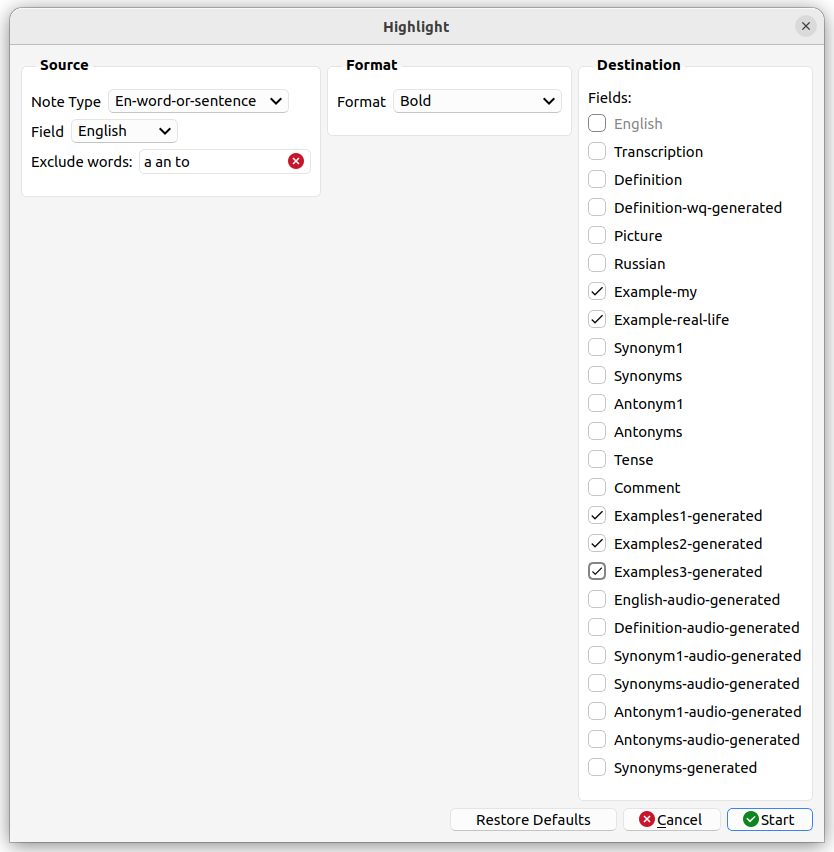
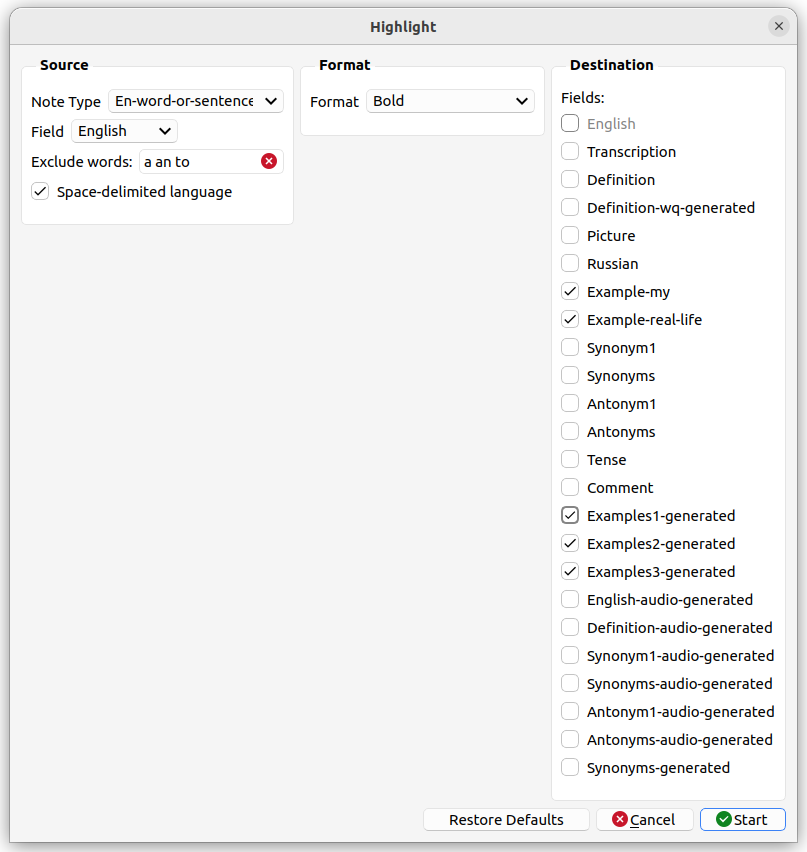
Update docs

diff --git a/docs-template/addon-info-description.md b/docs-template/addon-info-description.md
@@ -1,5 +1,5 @@
 **(!) This addon is in the BETA state. Use carefully. Try on a few notes first. Please, share your feedback
-in [Anki Forum](https://forums.ankiweb.net/u/aleks_ya/summary)
+in [Anki Forum](https://forums.ankiweb.net/t/cross-field-highlighter-addon-support-page/52592)
 or [GitHub issues](https://github.com/Aleks-Ya/cross-field-highlighter-anki-addon/issues).**
 
 "Cross-Field Highlighter" takes word or collocation from the source field and highlights it in the destination
@@ -8,16 +8,21 @@ fields:
 
 ## Screenshots
 
-CFH menu:  
+Browser menu:  
 ![](https://raw.githubusercontent.com/Aleks-Ya/cross-field-highlighter-anki-addon/master/docs/images/browser-menu.png)
 
 "Highlight" dialog:  
 ![](https://raw.githubusercontent.com/Aleks-Ya/cross-field-highlighter-anki-addon/master/docs/images/dialog-highlight.png)
+
+Supported formats:
+![](https://raw.githubusercontent.com/Aleks-Ya/cross-field-highlighter-anki-addon/master/docs/images/formats.png)
 
 "Erase" dialog (removes previously added highlighting):  
 ![](https://raw.githubusercontent.com/Aleks-Ya/cross-field-highlighter-anki-addon/master/docs/images/dialog-erase.png)
 
 ## Links
 
-- [GitHub project](https://github.com/Aleks-Ya/cross-field-highlighter-anki-addon)
+- [Addon Page](https://ankiweb.net/shared/info/1312127886)
+- [Support forum topic](https://forums.ankiweb.net/t/cross-field-highlighter-addon-support-page/52592)
+- [GitHub](https://github.com/Aleks-Ya/cross-field-highlighter-anki-addon)
 - [Changelog](https://github.com/Aleks-Ya/cross-field-highlighter-anki-addon/blob/master/CHANGELOG.md)

diff --git a/docs/addon-info-description.md b/docs/addon-info-description.md
@@ -1,5 +1,5 @@
 **(!) This addon is in the BETA state. Use carefully. Try on a few notes first. Please, share your feedback
-in [Anki Forum](https://forums.ankiweb.net/u/aleks_ya/summary)
+in [Anki Forum](https://forums.ankiweb.net/t/cross-field-highlighter-addon-support-page/52592)
 or [GitHub issues](https://github.com/Aleks-Ya/cross-field-highlighter-anki-addon/issues).**
 
 "Cross-Field Highlighter" takes word or collocation from the source field and highlights it in the destination
@@ -8,16 +8,21 @@ fields:
 
 ## Screenshots
 
-CFH menu:  
+Browser menu:  
 ![](https://raw.githubusercontent.com/Aleks-Ya/cross-field-highlighter-anki-addon/master/docs/images/browser-menu.png)
 
 "Highlight" dialog:  
 ![](https://raw.githubusercontent.com/Aleks-Ya/cross-field-highlighter-anki-addon/master/docs/images/dialog-highlight.png)
+
+Supported formats:
+![](https://raw.githubusercontent.com/Aleks-Ya/cross-field-highlighter-anki-addon/master/docs/images/formats.png)
 
 "Erase" dialog (removes previously added highlighting):  
 ![](https://raw.githubusercontent.com/Aleks-Ya/cross-field-highlighter-anki-addon/master/docs/images/dialog-erase.png)
 
 ## Links
 
-- [GitHub project](https://github.com/Aleks-Ya/cross-field-highlighter-anki-addon)
+- [Addon Page](https://ankiweb.net/shared/info/1312127886)
+- [Support forum topic](https://forums.ankiweb.net/t/cross-field-highlighter-addon-support-page/52592)
+- [GitHub](https://github.com/Aleks-Ya/cross-field-highlighter-anki-addon)
 - [Changelog](https://github.com/Aleks-Ya/cross-field-highlighter-anki-addon/blob/master/CHANGELOG.md)

diff --git a/README.md b/README.md
@@ -1,6 +1,7 @@
 # "Cross-Field Highlighter" Anki addon
 
 - [Addon Page](https://ankiweb.net/shared/info/1312127886)
+- [Support forum topic](https://forums.ankiweb.net/t/cross-field-highlighter-addon-support-page/52592)
 - [GitHub](https://github.com/Aleks-Ya/cross-field-highlighter-anki-addon)
 - [Changelog](https://github.com/Aleks-Ya/cross-field-highlighter-anki-addon/blob/master/CHANGELOG.md)
 
@@ -8,11 +9,14 @@
 fields:  
 ![](https://raw.githubusercontent.com/Aleks-Ya/cross-field-highlighter-anki-addon/master/docs/images/short-description-2.png)
 
-CFH menu:  
+Browser menu:  
 ![](https://raw.githubusercontent.com/Aleks-Ya/cross-field-highlighter-anki-addon/master/docs/images/browser-menu.png)
 
 "Highlight" dialog:  
 ![](https://raw.githubusercontent.com/Aleks-Ya/cross-field-highlighter-anki-addon/master/docs/images/dialog-highlight.png)
+
+Supported formats:  
+![](https://raw.githubusercontent.com/Aleks-Ya/cross-field-highlighter-anki-addon/master/docs/images/formats.png)
 
 "Erase" dialog (removes previously added highlighting):  
 ![](https://raw.githubusercontent.com/Aleks-Ya/cross-field-highlighter-anki-addon/master/docs/images/dialog-erase.png)

diff --git a/docs-template/developer-manual.md b/docs-template/developer-manual.md
@@ -52,16 +52,17 @@ Run: `./deploy_locally.sh ~/.local/share/Anki2/addons21/cross_field_highlighter`
 
 ## Release
 
-1. Update `CHANGELOG.md` manually
-2. Update documentation: `./docs_render.sh`
-3. Increment version:
+1. Check SonarQube warnings: https://sonarcloud.io/project/overview?id=Aleks-Ya_note-size-anki-addon
+2. Update `CHANGELOG.md` manually
+3. Update documentation: `./docs_render.sh`
+4. Increment version:
     1. Major: `bump-my-version bump major`
     2. Minor: `bump-my-version bump minor`
     3. Patch: `bump-my-version bump patch`
-4. Build ZIP: `python setup.py dist`
-5. Upload ZIP to the Addon page:
+5. Build ZIP: `python setup.py dist`
+6. Upload ZIP to the Addon page:
     1. Page: https://ankiweb.net/shared/info/1312127886
     2. Update `Description` from `docs-template/addon-info-description.md`
     3. Attach the distribution file
-6. Push Git branch and tags: `git push --follow-tags`
-7. Create a GitHub release from tag
+7. Push Git branch and tags: `git push --follow-tags`
+8. Create a GitHub release from tag

diff --git a/docs/developer-manual.md b/docs/developer-manual.md
@@ -62,16 +62,17 @@ Run: `./deploy_locally.sh ~/.local/share/Anki2/addons21/cross_field_highlighter`
 
 ## Release
 
-1. Update `CHANGELOG.md` manually
-2. Update documentation: `./docs_render.sh`
-3. Increment version:
+1. Check SonarQube warnings: https://sonarcloud.io/project/overview?id=Aleks-Ya_note-size-anki-addon
+2. Update `CHANGELOG.md` manually
+3. Update documentation: `./docs_render.sh`
+4. Increment version:
     1. Major: `bump-my-version bump major`
     2. Minor: `bump-my-version bump minor`
     3. Patch: `bump-my-version bump patch`
-4. Build ZIP: `python setup.py dist`
-5. Upload ZIP to the Addon page:
+5. Build ZIP: `python setup.py dist`
+6. Upload ZIP to the Addon page:
     1. Page: https://ankiweb.net/shared/info/1312127886
     2. Update `Description` from `docs-template/addon-info-description.md`
     3. Attach the distribution file
-6. Push Git branch and tags: `git push --follow-tags`
-7. Create a GitHub release from tag
+7. Push Git branch and tags: `git push --follow-tags`
+8. Create a GitHub release from tag

diff --git a/docs-template/user-manual.md b/docs-template/user-manual.md
@@ -14,6 +14,8 @@ fields:
        highlighted.
     5. Stop words: given stop words will be excluded from the source field (e.g. stop words `a` from `a cat` will be
        treated as `cat`).
+    6. Non-space-delimited languages (Japanese, Chinese, Thai, etc.) are supported.
+    7. Repeating highlighting the same notes doesn't duplicate highlighting.
 2. Erase:
     1. CHF removes previously added highlightings from fields.
     2. CFH marks its own formatting, so it can erase exactly only its formatting.

diff --git a/docs/user-manual.md b/docs/user-manual.md
@@ -14,6 +14,8 @@ fields:
        highlighted.
     5. Stop words: given stop words will be excluded from the source field (e.g. stop words `a` from `a cat` will be
        treated as `cat`).
+    6. Non-space-delimited languages (Japanese, Chinese, Thai, etc.) are supported.
+    7. Repeating highlighting the same notes doesn't duplicate highlighting.
 2. Erase:
     1. CHF removes previously added highlightings from fields.
     2. CFH marks its own formatting, so it can erase exactly only its formatting.

diff --git a/CHANGELOG.md b/CHANGELOG.md
@@ -13,3 +13,7 @@
 ## [v0.1.4](https://github.com/Aleks-Ya/cross-field-highlighter-anki-addon/releases/tag/v0.1.4) - 2024-12-01
 
 1. __[BUG]__ Do not highlight collocation within HTML tags
+
+## [v0.2.0](https://github.com/Aleks-Ya/cross-field-highlighter-anki-addon/releases/tag/v0.2.0) - 2024-12-03
+
+1. __[FEATURE]__ Support non-space-delimited languages
